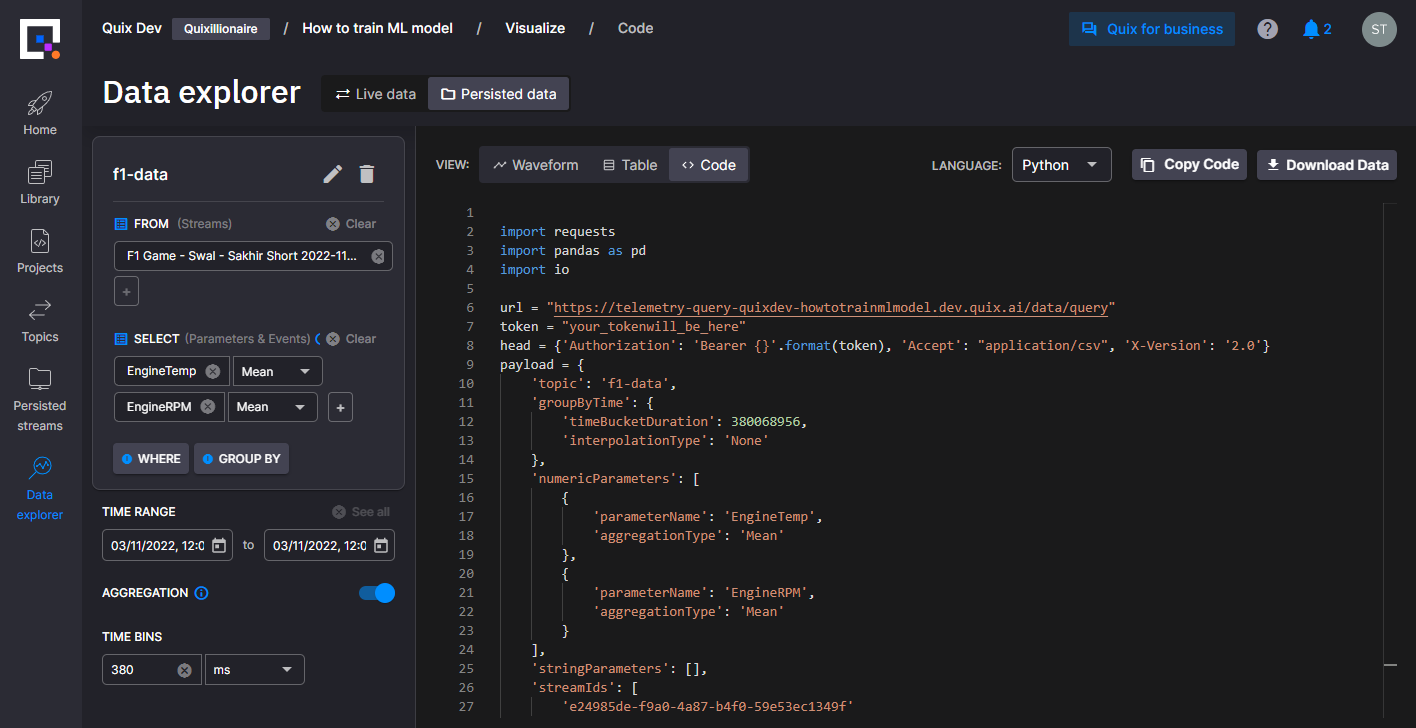
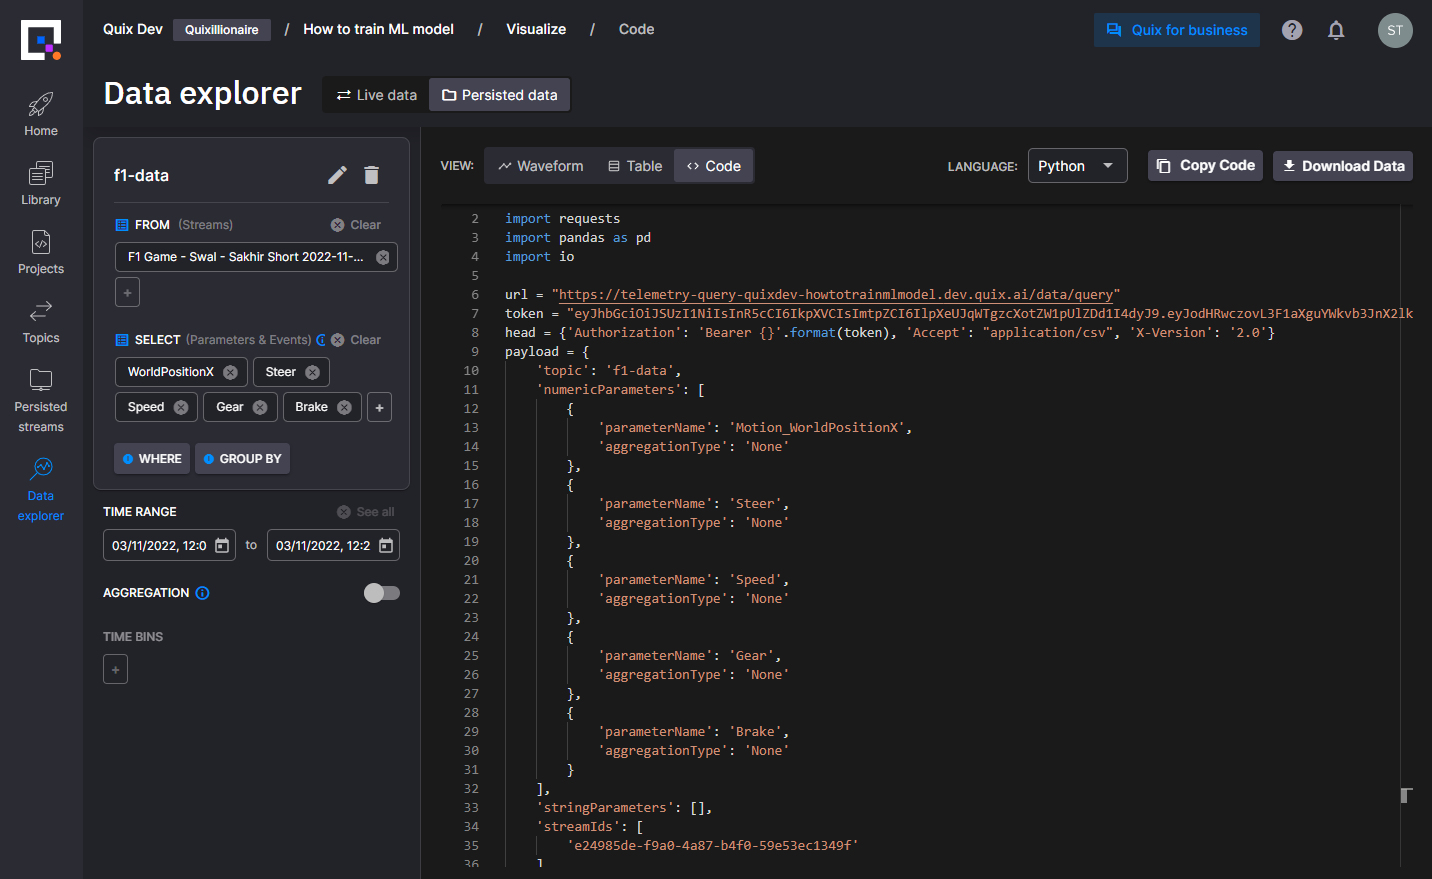
updated train ml model docs

diff --git a/docs/platform/how-to/train-and-deploy-ml/train-ml-model.md b/docs/platform/how-to/train-and-deploy-ml/train-ml-model.md
@@ -36,6 +36,10 @@ python3 -m pip install mlflow
 python3 -m pip install matplotlib
 ```
 
+!!! note 
+	
+	If you get an 'Access Denied' error installing mlflow try adding '--user' to the install command or run the installer from an Anaconda Powershell Prompt (with --user)
+
 !!! tip
 
 	If you don’t see **Python3** kernel in your Jupyter notebook, execute the following commands in your python environment: 
@@ -68,27 +72,26 @@ from sklearn.tree import DecisionTreeClassifier
 
 ### Getting training data
 
-Quix web application has a python code generator to help you connect
-your Jupyter notebook to Quix.
+The Quix web application has a python code generator to help you connect your Jupyter notebook with Quix.
 
-1.  Go to the platform
+You need to be logged into the platform for this:
 
-2.  Select workspace
+1.  Select workspace (you likley only have one)
 
-3.  Go to the Data catalogue ![icons/data-icon.png](../../images/icons/data-icon.png)
+2.  Go to the Data Explorer
 
-4.  Select car data stream to visualize
-    ![icons/visualize-icon.png](../../images/icons/visualize-icon.png)
+3.  Add a query to visualize some data. Select parameters, events, aggregation and time range
 
-5.  Select `Brake`, `Motion_Yaw`, `Steer`, `Speed`, `Gear` parameters
+	!!! note
+		Select `Brake`, `Motion_WorldPositionX`, `Steer`, `Speed`, `Gear` parameters and turn off aggregation!
 
-6.  Press **Connect** button
+4.  Select the **Code** tab
 
-7.  Select **Python** language
-
-8.  Copy Python code to your Jupyter notebook and execute.
+5.  Ensure **Python** is the selected language
 
 ![how-to/jupyter-wb/connect-python.png](../../images/how-to/jupyter-wb/connect-python.png)
+
+Copy the Python code to your Jupyter notebook and execute.
 
 ![how-to/jupyter-wb/jupyter-results.png](../../images/how-to/jupyter-wb/jupyter-results.png)
 
@@ -98,18 +101,19 @@ your Jupyter notebook to Quix.
 
 ### Preprocessing of features
 
-We will prepare data for training by applying some transformation on
-downloaded data.
+We will prepare data for training by applying some transformation on the downloaded data.
+
+Execute this in your notebook:
 
 ``` python
-## Convert yaw angle to continuous values
-df["Motion_Yaw_sin"] = df["Motion_Yaw"].map(lambda x: math.sin(x))
-df["Motion_Yaw_cos"] = df["Motion_Yaw"].map(lambda x: math.cos(x))
+## Convert motion to continuous values
+df["Motion_WorldPositionX_sin"] = df["Motion_WorldPositionX"].map(lambda x: math.sin(x))
+df["Motion_WorldPositionX_cos"] = df["Motion_WorldPositionX"].map(lambda x: math.cos(x))
 ```
 
 #### Preprocessing of label
 
-Here we simplify breaking to boolean.
+Here we simplify braking to a boolean value.
 
 ``` python
 ## Conversion of label
@@ -118,8 +122,7 @@ df["Brake_bool"] = df["Brake"].map(lambda x: round(x))
 
 ### Generate advanced brake signal for training
 
-Now we need to shift breaking 5 seconds ahead to train model to predict
-breaking 5 seconds ahead.
+Now we need to shift breaking 5 seconds ahead to train the model to predict breaking 5 seconds ahead.
 
 ``` python
 ## Offset dataset and trim it
@@ -174,7 +177,7 @@ kfold = KFold(5, shuffle=True, random_state=1)
 with mlflow.start_run():
     class_weight = None
     max_depth = 5
-    features = ["Motion_Yaw_cos", "Motion_Yaw_sin", "Steer", "Speed", "Gear"]
+    features = ["Motion_WorldPositionX_cos", "Motion_WorldPositionX_sin", "Steer", "Speed", "Gear"]
 
     mlflow.log_param("class_weight", class_weight)
     mlflow.log_param("max_depth", max_depth)
@@ -267,7 +270,7 @@ MLflow.
 
 !!! warning
 
-	MLflow is working only in MacOS, Linux or Windows linux subsystem.
+	MLflow works only on MacOS, Linux or Windows linux subsystem (WSL).
 
 !!! tip
 
